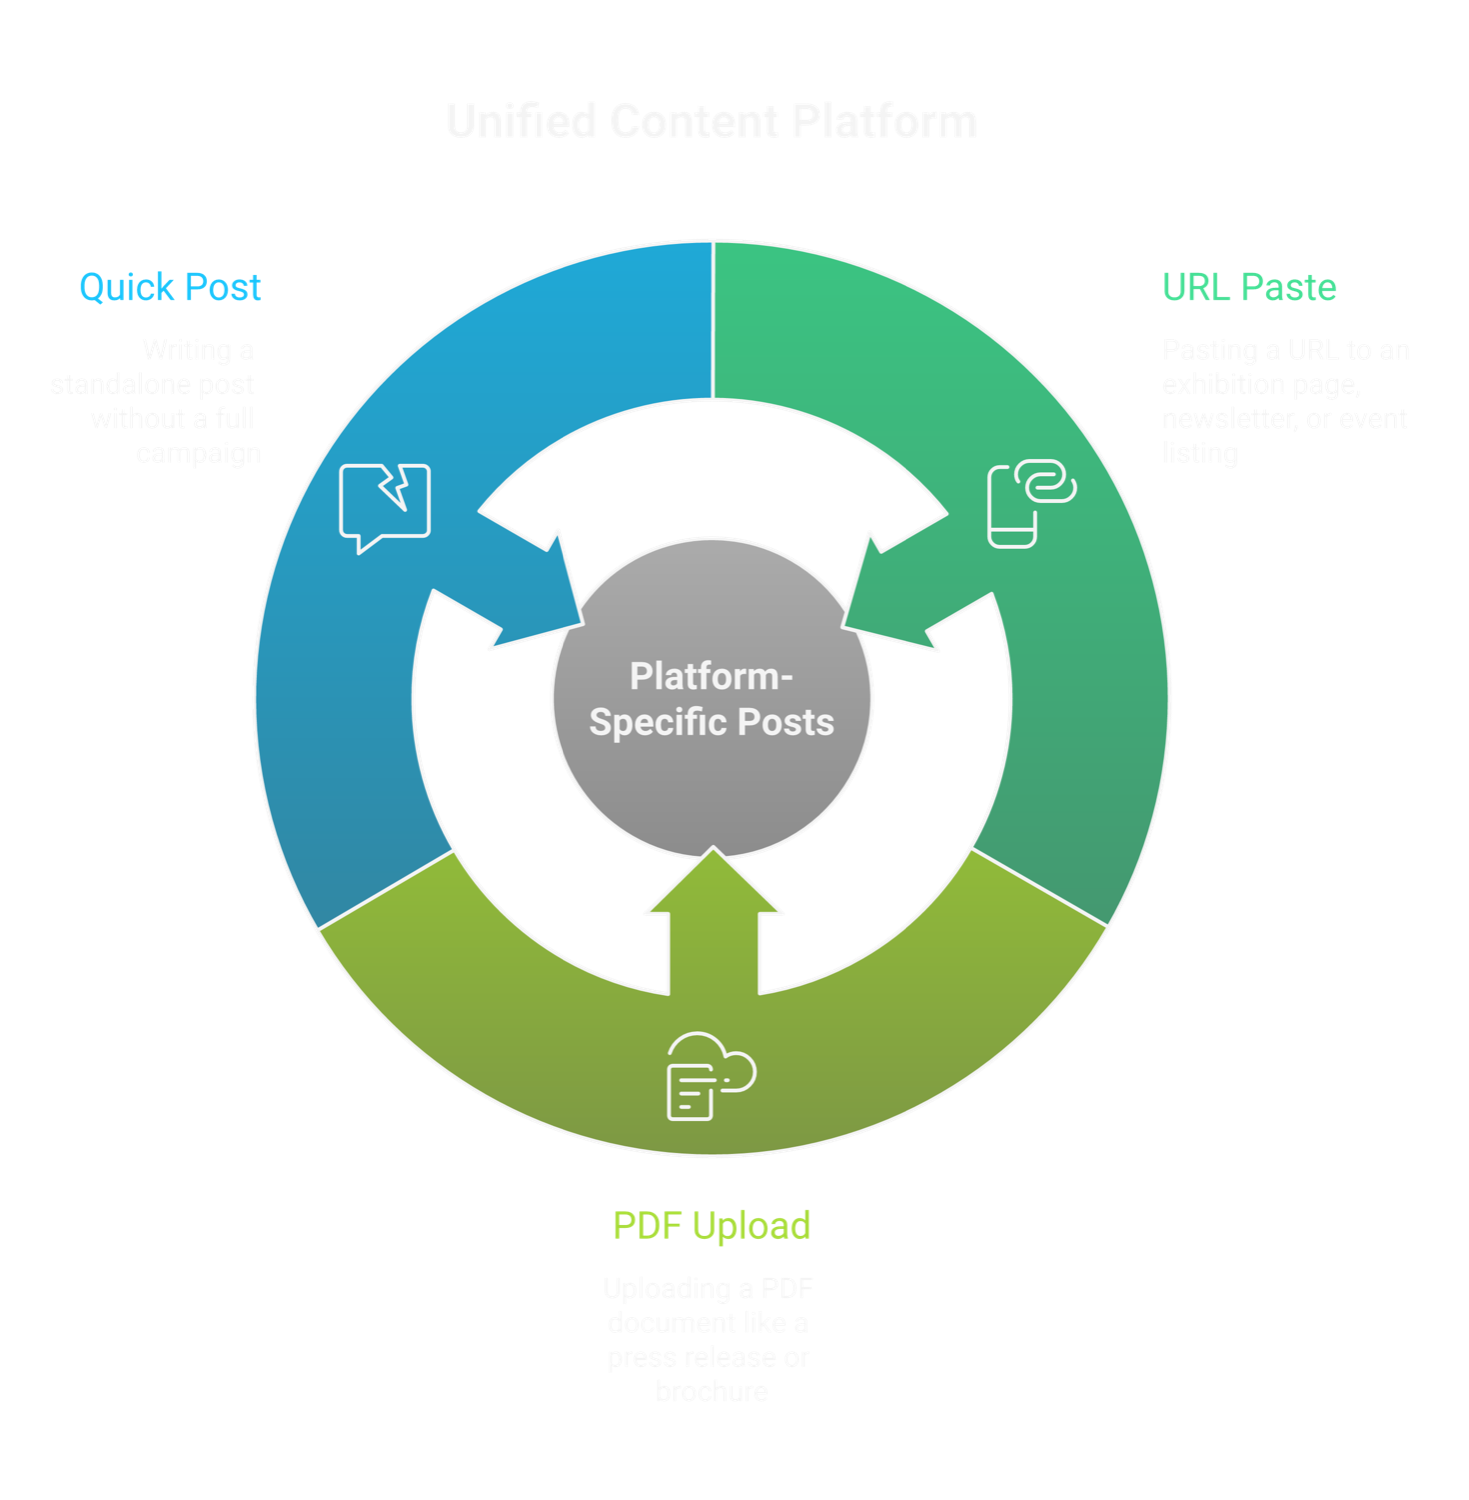
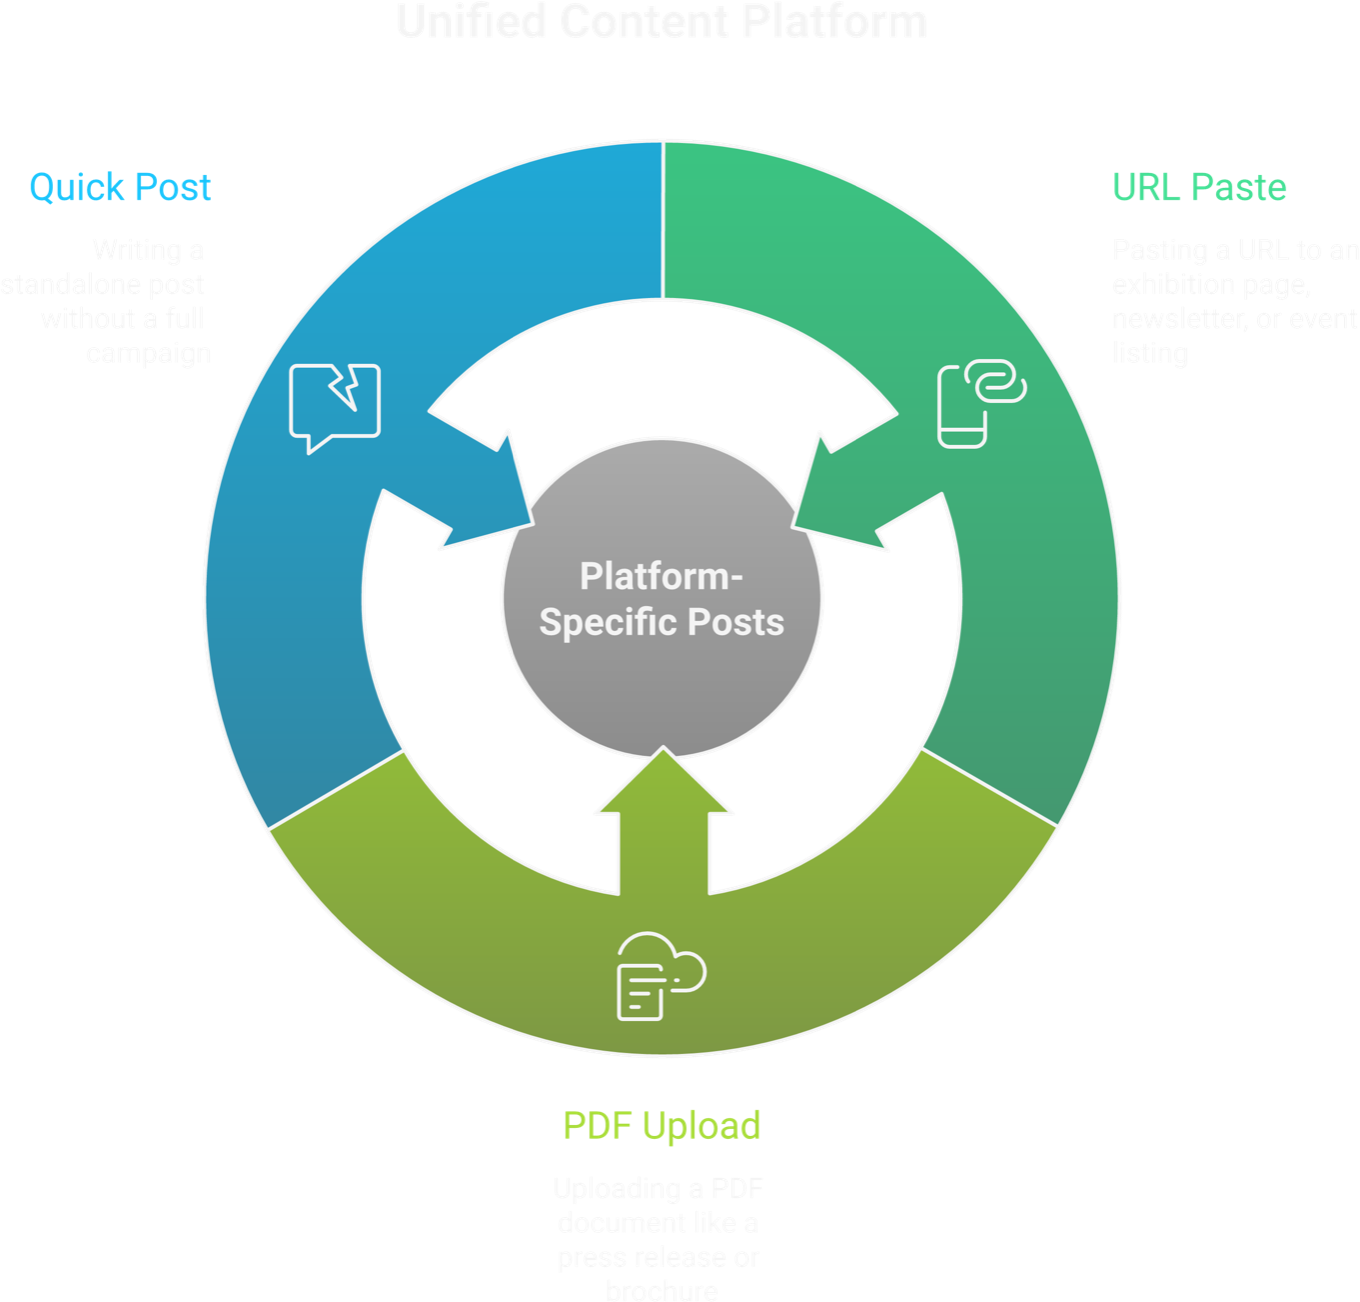
features: keep the screenshot carousels rotating, and say they are steppable
Four things, all in the carousels.

Pausing on hover looked like a courtesy and behaved like a freeze. The
carousel occupies the right half of the hero, which is where a cursor rests
after you scroll, so it stopped on slide one with nothing on screen to
explain why. Measured against production: zero advances in twelve seconds
with the pointer simply parked there.

The first slide was also hardcoded to 2000ms against every other slide's
4000ms, so it read as a flash rather than a slide. Now uniform, measured at
3.99 / 3.98 / 4.00 / 4.00.

Removing the hover pause exposed a latent bug it had been masking. The
lightbox renders from the same activeIndex the autoplay mutates, and your
cursor is always over the carousel when you click to open it, so hover-pause
was the only thing stopping the picture swapping four seconds later.
Rotation now pauses explicitly while the lightbox is open.

Adds quiet chevrons and edge scrims to both image carousels, shared as one
component so the two cannot drift. The dots said how many slides there were
and nothing said you could step through them. The scrims are not decoration:
the screenshots run from near-black app UI to a pale white diagram, and a
bare chevron disappears against half of them.

Also trims the transparent border off the lead diagram. Worth a little (53%
to 57% of the frame width) and not the fix. The diagram is square and the
frame is 16:10, so object-contain fits it to the height either way.
[…]

diff --git a/src/components/features/FeatureDetailTemplate.tsx b/src/components/features/FeatureDetailTemplate.tsx
@@ -7,6 +7,7 @@ import { Button } from '@/components/ui/Button';
 import { EarlyAccessButton } from '@/components/ui/EarlyAccessButton';
 import { Container } from '@/components/ui/Container';
 import { ImageLightbox } from '@/components/ui/ImageLightbox';
+import { CarouselArrows } from '@/components/ui/CarouselArrows';
 import { HorizontalTimeline } from '@/components/ui/HorizontalTimeline';
 import { CampaignTypeGrid } from '@/components/features/CampaignTypeGrid';
 import { CheckCircle } from 'lucide-react';
@@ -34,22 +35,29 @@ function ScreenshotCarousel({
     }
   }, [isInView]);
 
+  // Every slide gets the same dwell time. The first one used to get 2000ms
+  // against everyone else's 4000ms, which read as a flash rather than a slide.
   useEffect(() => {
     if (screenshots.length <= 1 || isPaused || !isInView) return;
-    const delay = activeIndex === 0 ? 2000 : 4000;
     const timeout = setTimeout(() => {
       setActiveIndex((prev) => (prev + 1) % screenshots.length);
-    }, delay);
+    }, 4000);
     return () => clearTimeout(timeout);
     // eslint-disable-next-line react-hooks/exhaustive-deps
   }, [screenshots.length, isPaused, isInView, activeIndex]);
 
+  // Only the lightbox pauses rotation. Pausing on hover looked reasonable and
+  // wasn't: the carousel occupies the right half of the hero, which is exactly
+  // where a resting cursor sits, so the whole thing silently froze on slide one
+  // with nothing on screen to explain why.
+  useEffect(() => {
+    setIsPaused(lightboxOpen);
+  }, [lightboxOpen]);
+
   return (
     <div
       ref={ref}
-      className="relative overflow-hidden rounded-2xl bg-navy-800 shadow-2xl ring-1 ring-white/[0.08]"
-      onMouseEnter={() => setIsPaused(true)}
-      onMouseLeave={() => setIsPaused(false)}
+      className="group relative overflow-hidden rounded-2xl bg-navy-800 shadow-2xl ring-1 ring-white/[0.08]"
     >
       <div
         className="relative aspect-[16/10] cursor-pointer p-6"
@@ -76,6 +84,13 @@ function ScreenshotCarousel({
             />
           </motion.div>
         </AnimatePresence>
+
+        {screenshots.length > 1 && (
+          <CarouselArrows
+            onPrev={() => setActiveIndex((prev) => (prev - 1 + screenshots.length) % screenshots.length)}
+            onNext={() => setActiveIndex((prev) => (prev + 1) % screenshots.length)}
+          />
+        )}
       </div>
 
       {(screenshots[activeIndex].caption || screenshots.length > 1) && (

diff --git a/src/components/ui/CarouselArrows.tsx b/src/components/ui/CarouselArrows.tsx
@@ -1,0 +1,56 @@
+'use client';
+
+import { ChevronLeft, ChevronRight } from 'lucide-react';
+
+/**
+ * Affordance arrows for the image carousels. Deliberately quiet: the dots below
+ * already say how many slides there are, so these only need to say that the
+ * thing is steppable at all.
+ *
+ * Two parts. The edge scrims give the chevrons something to sit on, because the
+ * screenshots behind them run from near-black UI to pale white diagrams and a
+ * bare chevron disappears against half of them. The chevrons themselves rest at
+ * a low opacity and come up on hover of the whole carousel, so they read as a
+ * hint rather than as chrome.
+ *
+ * Renders nothing for a single image. Both handlers stopPropagation because the
+ * frame underneath opens the lightbox on click.
+ */
+export function CarouselArrows({
+  onPrev,
+  onNext,
+}: {
+  onPrev: () => void;
+  onNext: () => void;
+}) {
+  return (
+    <>
+      <div className="pointer-events-none absolute inset-y-0 left-0 w-20 bg-gradient-to-r from-black/25 via-black/10 to-transparent opacity-70 transition-opacity duration-300 group-hover:opacity-100" />
+      <div className="pointer-events-none absolute inset-y-0 right-0 w-20 bg-gradient-to-l from-black/25 via-black/10 to-transparent opacity-70 transition-opacity duration-300 group-hover:opacity-100" />
+
+      <button
+        type="button"
+        onClick={(e) => {
+          e.stopPropagation();
+          onPrev();
+        }}
+        aria-label="Previous image"
+        className="absolute left-1 top-1/2 -translate-y-1/2 rounded-full p-2 text-white/40 transition duration-300 hover:bg-white/10 group-hover:text-white/80 focus-visible:outline-2 focus-visible:outline-offset-2 focus-visible:outline-primary-400"
+      >
+        <ChevronLeft className="h-5 w-5" />
+      </button>
+
+      <button
+        type="button"
+        onClick={(e) => {
+          e.stopPropagation();
+          onNext();
+        }}
+        aria-label="Next image"
+        className="absolute right-1 top-1/2 -translate-y-1/2 rounded-full p-2 text-white/40 transition duration-300 hover:bg-white/10 group-hover:text-white/80 focus-visible:outline-2 focus-visible:outline-offset-2 focus-visible:outline-primary-400"
+      >
+        <ChevronRight className="h-5 w-5" />
+      </button>
+    </>
+  );
+}

diff --git a/src/components/home/FeatureShowcase.tsx b/src/components/home/FeatureShowcase.tsx
@@ -6,6 +6,7 @@ import { motion, AnimatePresence, useInView } from 'framer-motion';
 import { Button } from '@/components/ui/Button';
 import { Container } from '@/components/ui/Container';
 import { ImageLightbox } from '@/components/ui/ImageLightbox';
+import { CarouselArrows } from '@/components/ui/CarouselArrows';
 import type { FeatureDefinition } from '@/config/tools';
 
 function ImageCarousel({ images, alt }: { images: { src: string; caption?: string }[]; alt: string }) {
@@ -28,7 +29,7 @@ function ImageCarousel({ images, alt }: { images: { src: string; caption?: strin
   return (
     <div
       ref={ref}
-      className="relative overflow-hidden rounded-2xl bg-navy-800 shadow-2xl ring-1 ring-white/[0.08]"
+      className="group relative overflow-hidden rounded-2xl bg-navy-800 shadow-2xl ring-1 ring-white/[0.08]"
     >
       <div
         className="relative aspect-[16/10] cursor-pointer p-6"
@@ -55,6 +56,13 @@ function ImageCarousel({ images, alt }: { images: { src: string; caption?: strin
             />
           </motion.div>
         </AnimatePresence>
+
+        {images.length > 1 && (
+          <CarouselArrows
+            onPrev={() => setActiveIndex((safeIndex - 1 + images.length) % images.length)}
+            onNext={() => setActiveIndex((safeIndex + 1) % images.length)}
+          />
+        )}
       </div>
 
       {(images[safeIndex].caption || images.length > 1) && (
